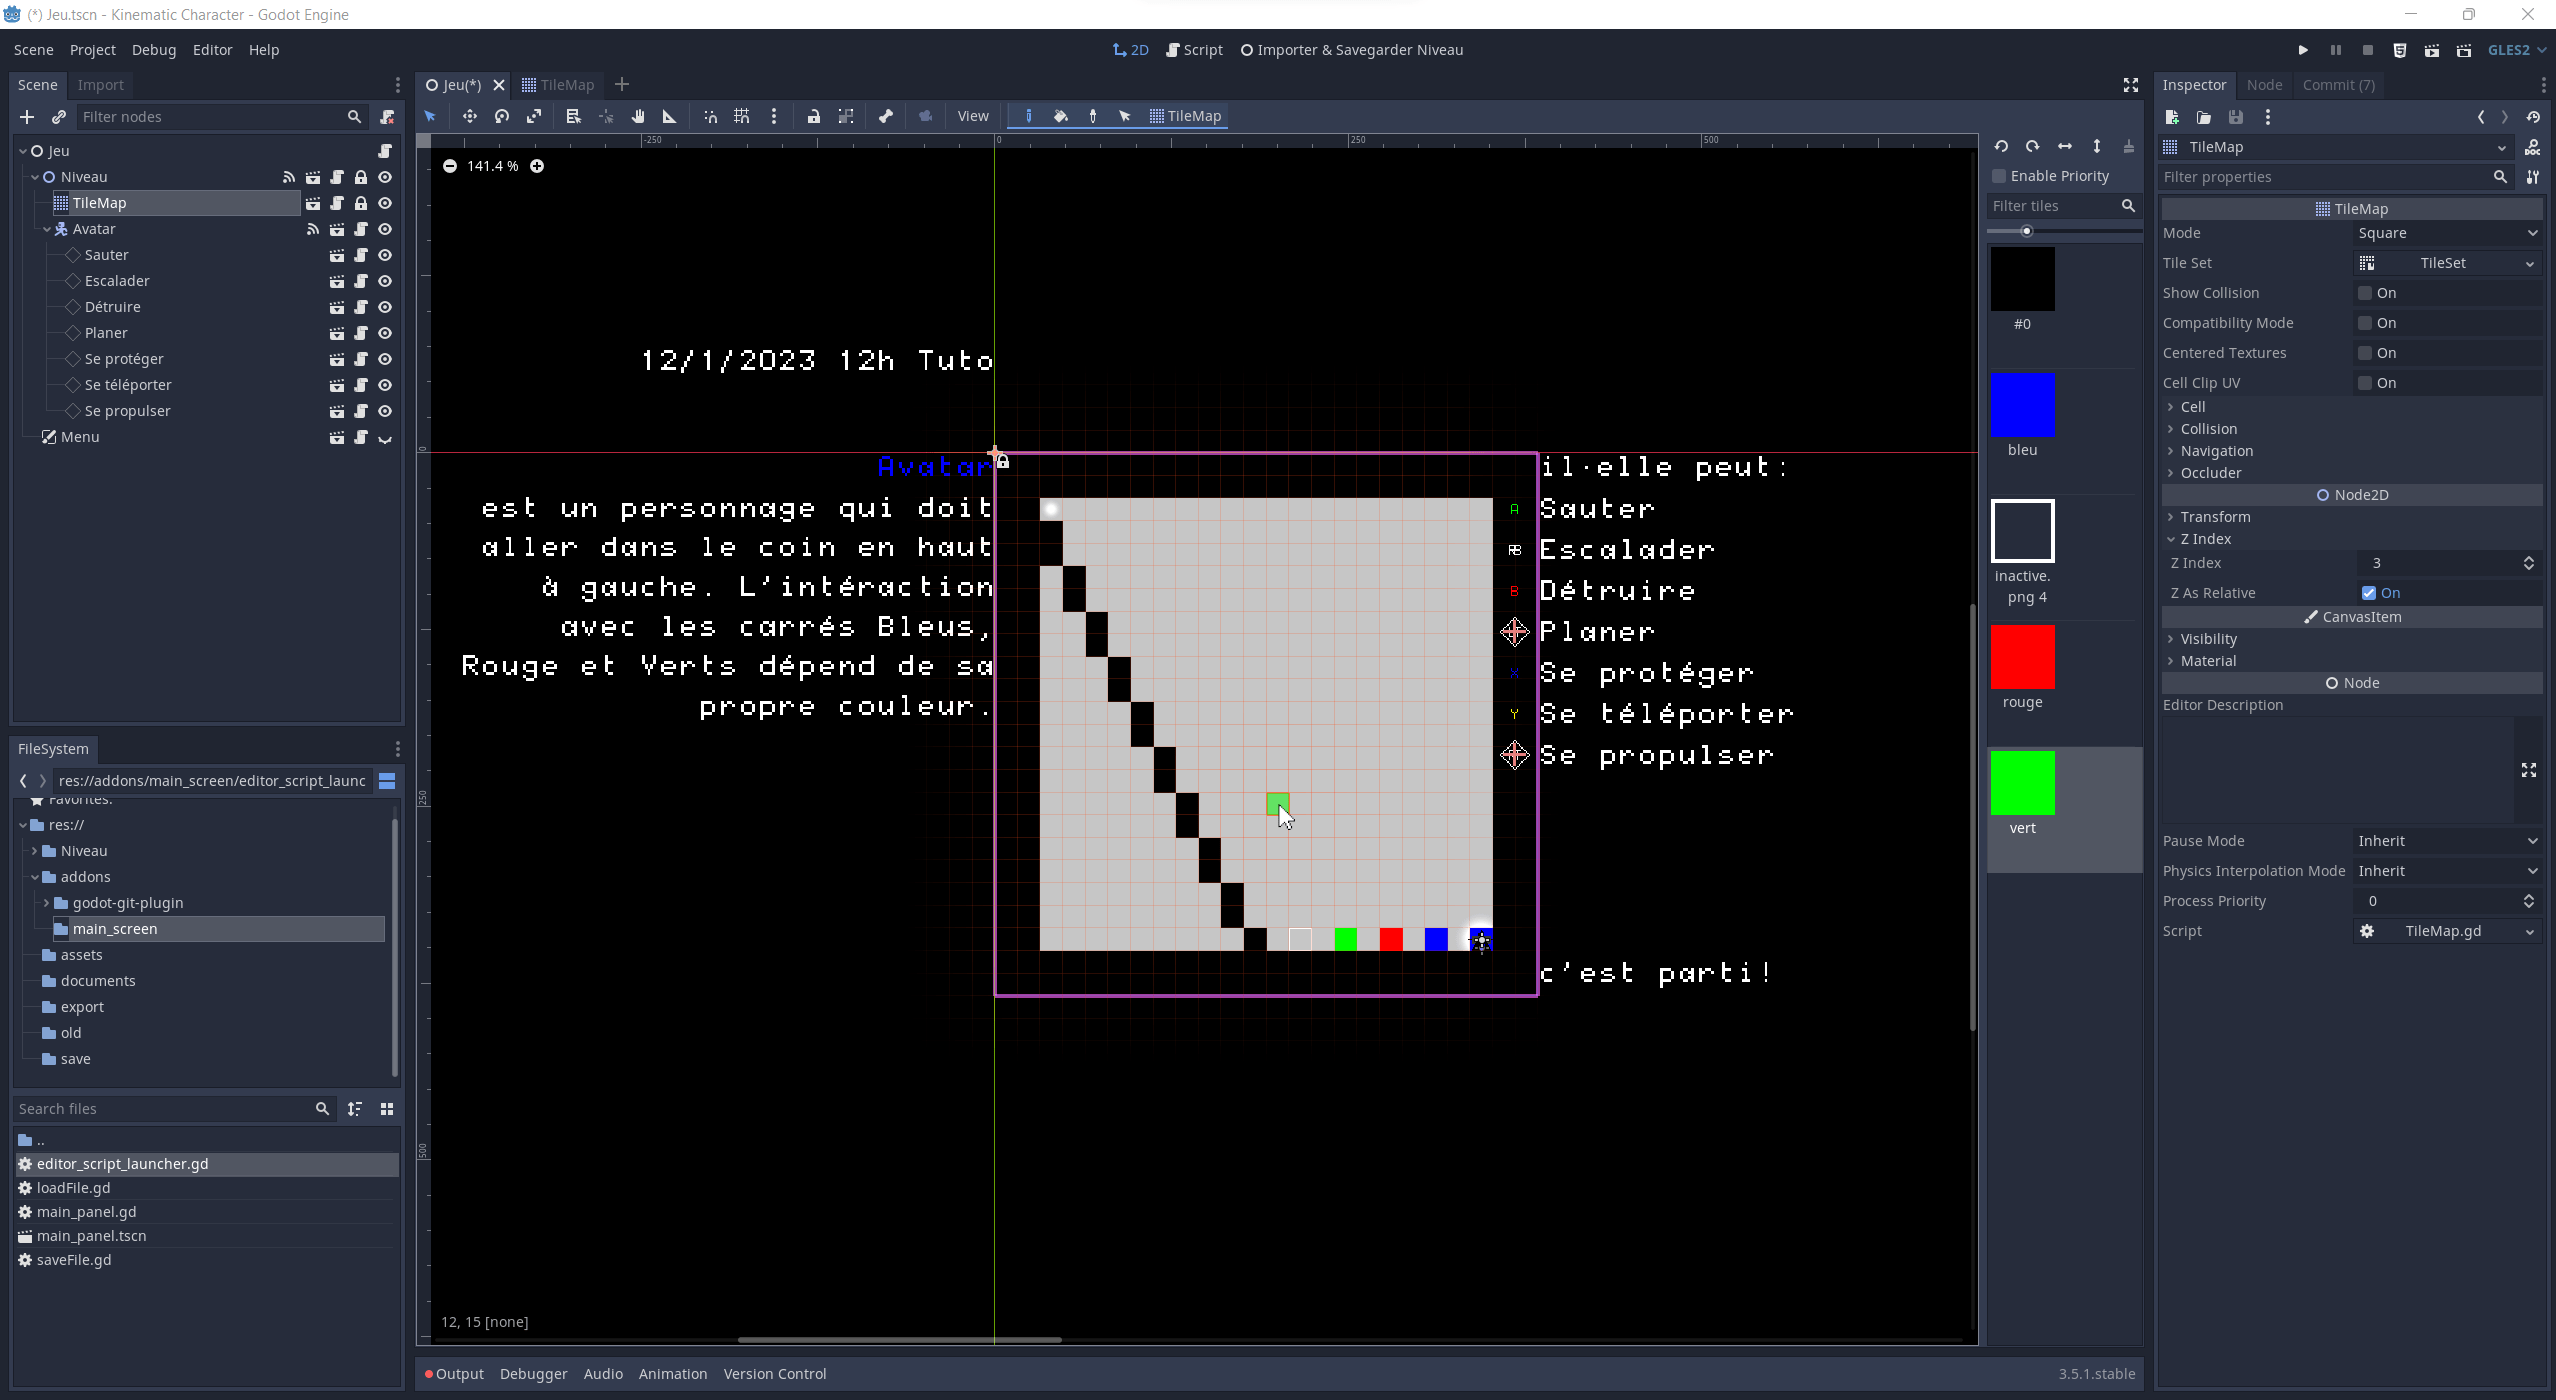
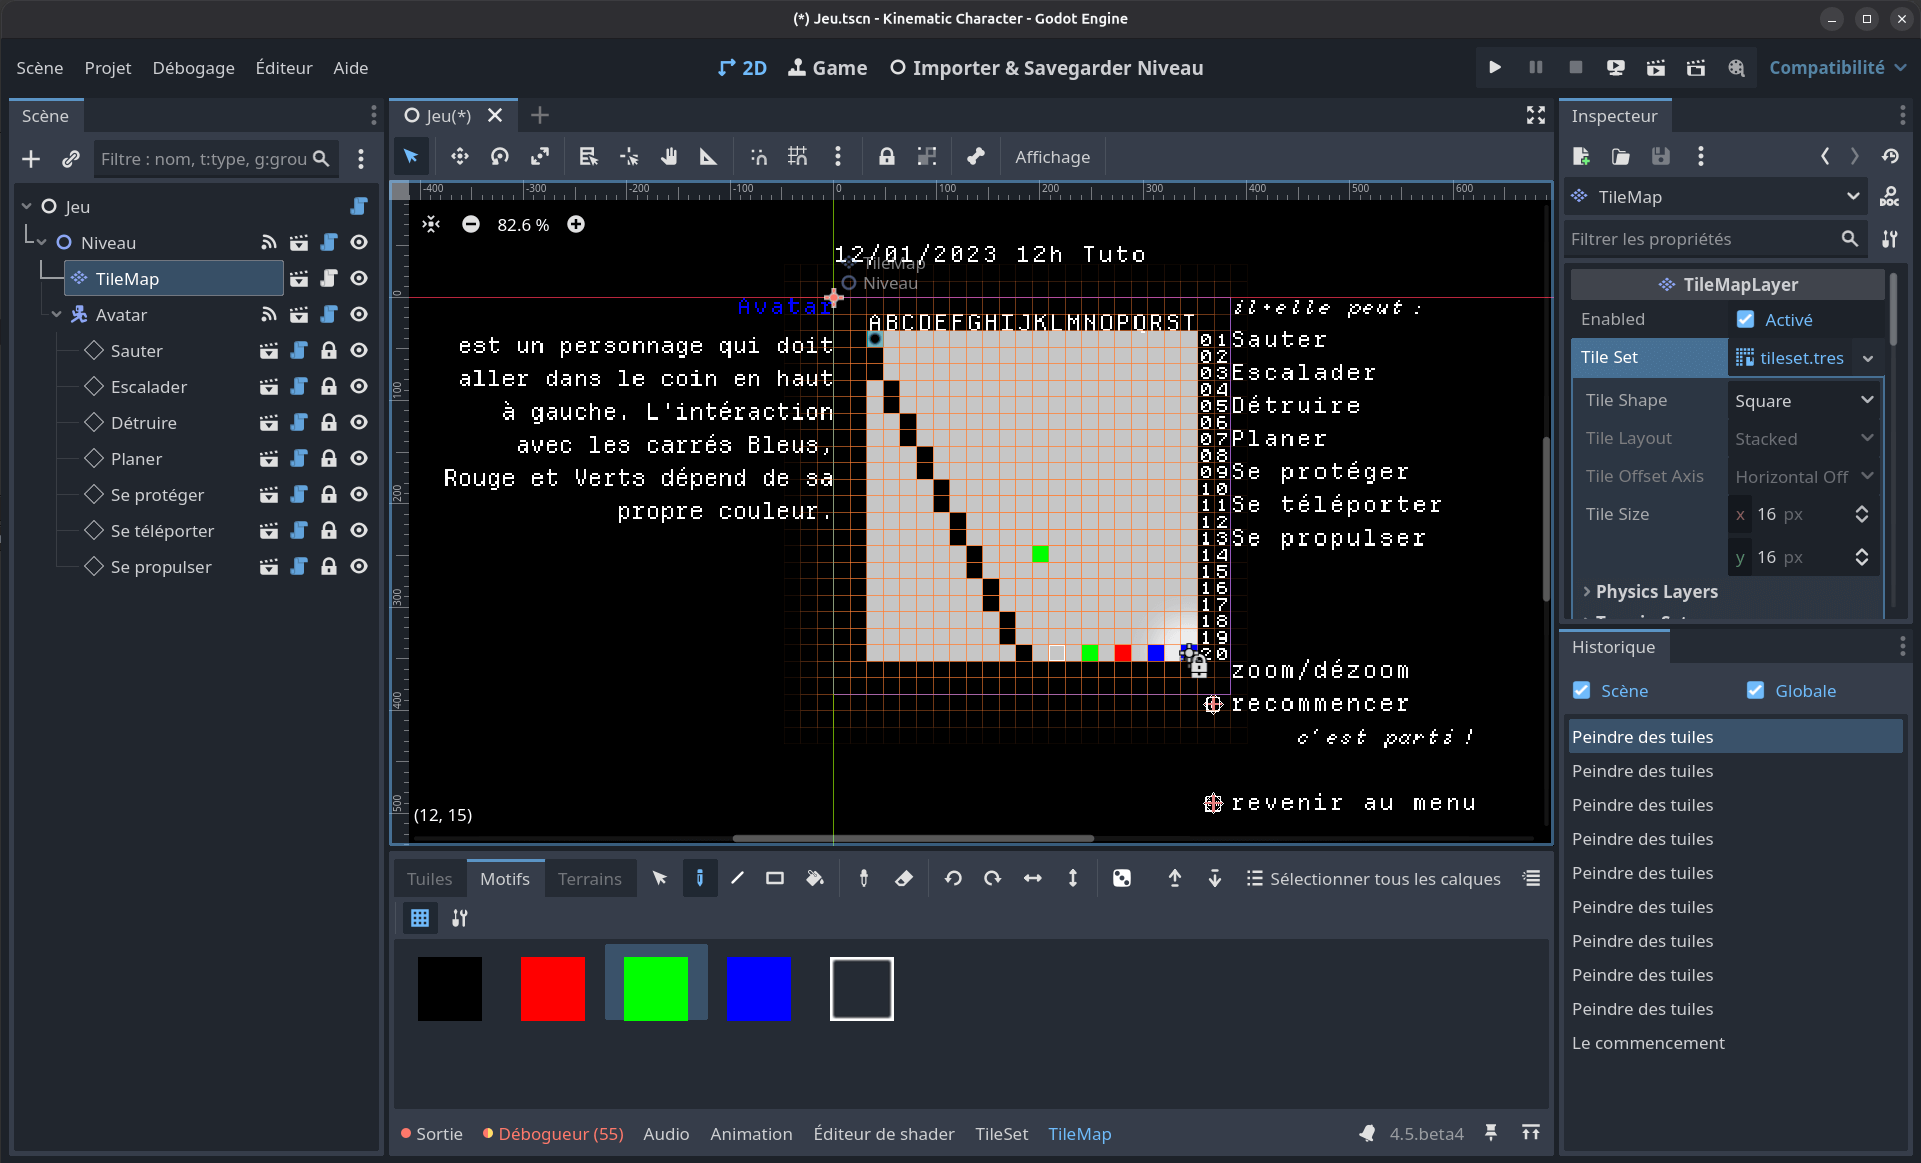
0.3 release & godot 4.5 update

diff --git a/readme.md b/readme.md
@@ -1,23 +1,24 @@
 # Kinématique
 
-*testé avec Godot 4.4*
+*testé avec Godot 4.5*
 
-Boite à outils pour prototyper un jeu-vidéo de plateforme en 2D dans l’interface du moteur de jeu-vidéo [Godot](https://godotengine.org/download/).
+Boite à outils pour prototyper un jeu-vidéo de plateforme en 2D avec le moteur et dans l’interface de [Godot](https://godotengine.org/download/).
 
 ![Capture d’écran du logiciel Godot avec le projet Kinématique importé et prêt à l’usage](documents/Capture_écran.png)
 
-Il se concentre sur des notions de *game design* et surtout de *level design* en éloignant — peut-être dans un premier temps — le code pour cell·eux qui souhaitent l’utiliser ou encadrer des ateliers et cours.
-Comme tout se passe dans l’interface d’un véritable éditeur de jeu-vidéo, tout est augmentable, paramétrable et reprogrammable.
+Ce projet propose de se concentrer sur des notions de *game design* et surtout de *level design* en éloignant — peut-être dans un premier temps — le code pour cell·eux qui souhaitent prototyper ou encadrer des ateliers et cours.
+
+Beaucoup de choix qui structurent le projet sont fait pour faciliter la manipulation lors d’un atelier par une personne qui ne connaît pas forcément Godot et ne sait pas coder.
+
+Mais comme tout se passe dans l’interface d’un véritable moteur de jeu-vidéo, tout est augmentable, paramétrable et reprogrammable.
 
 Testez [ici](https://brulé.net/kinématique/) les niveaux créés dans des ateliers (groupes d'environ 5 enfants de 6 à 12 ans) !
-
-Beaucoup de choix qui structurent le projet sont fait pour faciliter la manipulation lors d’un atelier par une personne qui ne connaît pas forcément Godot et ne sait pas coder. La structuration de l’arborescence des nœuds du projet permet de rendre visible dans la scène principale `Jeu.tscn` seulement les nœuds intéressants et faciles à modifier pour se concentrer sur le level design et les bases du game design.
 
 Un wiki permet d’explorer [l’installation](https://github.com/CorentinBrule/kinematic/wiki/1.-Installation) et [la prise en main](https://github.com/CorentinBrule/kinematic/wiki/2.-Prise-en-main) ; les [ressources pédagogiques (déroulement d’ateliers)](https://github.com/CorentinBrule/kinematic/wiki/Ressources-p%C3%A9dagogiques) et les [aspects techniques pour adapter l’outil en mettant les mains dans le cambouis](https://github.com/CorentinBrule/kinematic/wiki/Aller-plus-loin-(dev)).
 
 ## Principes généraux du jeu
 
-*Kinématique* permet de prototyper un niveau de jeu de plateforme en 2D. Il met en place donc un certain nombre de principes de base de *gameplay*:
+*Kinématique* permet de prototyper un niveau de jeu de plateforme en 2D. Il met donc en place un certain nombre de principes de base de *gameplay* :
 
 - on contrôle un **carré / personnage / avatar**
 - l’**avatar** est soumis à des règles qui ressemblent à la gravité (attiré par le bas, retenu par d’autres objets physiques)
@@ -33,16 +34,16 @@ Un wiki permet d’explorer [l’installation](https://github.com/CorentinBrule/
     - le **bleu** bat le **rouge** mais est battu par le **vert**
     - le **vert** bat le **bleu** mais est battu par le **rouge**
   
-> pour l’expliquer autrement : ces couleurs viennent de la dynamique des trois éléments principaux des jeu Pokémon **feu / eau / plante** : Salamèche, Carapuce, Bulbizar.... tmtc.
+> ou sinon les trois types principaux des jeux Pokémon avec leurs forces et faiblesses **feu / eau / plante**... Salamèche, Carapuce, Bulbizar.... tmtc.
 
 **Ainsi, la couleur de l’avatar détermine ce qui est négatif pour lui (ennemies, malus, pièges...) et ce qui est positif (alliés, bonus, nourriture...)**
 
-- sans interaction particulière ou modification des règles du jeu, l’avatar qui touche un carré de la couleur malus, disparaît et réapparaît au point de départ ("perds"/"meurs"), laissant une petite croix pour que l’on se rappelle là où l’on a raté.
+- sans interaction particulière ou modification des règles du jeu, l’avatar qui touche un carré de la couleur malus, disparaît et réapparaît au point de départ (**perds/meurs**), laissant une petite croix pour que l’on se rappelle là où le⋅a joueur⋅euse a raté.
 
-- les éléments de couleur **noir** sont neutres (**plateforme**)
+- les éléments de couleur **noire** sont neutres (**plateformes**)
 - les carrés aux **contours blancs** sont des checkpoints
 
-Certaines de ces règles peuvent être ignorées/désactivées ou pourront être adaptées selon les besoins de l’atelier.
+Certaines de ces règles peuvent être ignorées/désactivées ou peuvent être adaptées selon les besoins.
 
 ## Crédits
 
